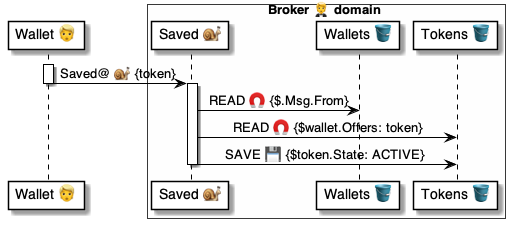
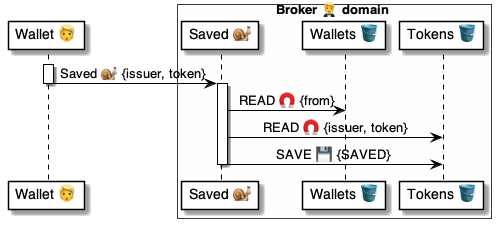
.

diff --git a/4 ⚙ Solution/20 🧑🦰 UI/Brokers 🤵/🤵🅰 Broker methods/Tokens 🎫 Saved 🧑🦰🐌🤵/🤵 Saved 📃 handler.md b/4 ⚙ Solution/20 🧑🦰 UI/Brokers 🤵/🤵🅰 Broker methods/Tokens 🎫 Saved 🧑🦰🐌🤵/🤵 Saved 📃 handler.md
@@ -1,8 +1,9 @@
-# 🤵📃 Saved@Broker 🎫 handler
+# 🤵 Saved 📃 handler
 
 > Purpose
 * [Script 📃](<🤵 Saved 🐌 msg.md>) that implements the [`Saved@Broker` 🅰 method](<🤵 Saved 🐌 msg.md>)
 
+<br/>
 
 ## Diagram
 
@@ -15,32 +16,36 @@
 
 # Assert the message
 - ASSERT|$.Msg:
-    AllOf: Token, Path
-    UUIDs: Token, From
-    Texts: Path
+    AllOf: Token, Issuer, Path
+    UUIDs: Token, Issuer, From
+    Texts: Issuer, Path
 
-# Get the Wallet 🧑🦰
+# Get the Wallet
 - READ >> $wallet:
     Set: Broker.Wallets
-    Key: $.Msg.Header.From 
+    Key: $.Msg.From
 
 # Verify the signature
 - VERIFY|$.Msg:
     Key: $wallet.PublicKey
 
-# Get the offered Token
-- READ >> $offer:
-    Set: $wallet.Offers
-    Key: $.Msg.Token
+# Get the Token
+- READ >> $token:
+    Set: Broker.Tokens
+    Key: 
+        Issuer: $.Msg.Issuer
+        Token: $.Msg.Token
+    Assert:
+        Wallet: $.Msg.From
 
-# Activate the Token
-- SAVE|$offer:
-    Status: ACTIVE
+# Progress the Token
+- SAVE|$token:
+    Status: SAVED
 ```
 
 |Uses||
 |-|-
 | [Commands ⌘](<../../../../35 💬 Chats/Scripts 📃/Command ⌘.md>) | [`ASSERT`](<../../../../37 Scripts 📃/📃 Commands ⌘/⌘ for holders 🧠/ASSERT 🚦/🚦 ASSERT ⌘ cmd.md>) [`READ`](<../../../../37 Scripts 📃/📃 Commands ⌘/⌘ for datasets 🪣/READ 🧲/🧲 READ ⌘ cmd.md>) [`RUN`](<../../../../37 Scripts 📃/📃 Commands ⌘/⌘ for control ▶/RUN 🏃/🏃 RUN ⌘ cmd.md>) [`SAVE`](<../../../../37 Scripts 📃/📃 Commands ⌘/⌘ for datasets 🪣/SAVE 💾/💾 SAVE ⌘ cmd.md>) [`VERIFY`](<../../../../37 Scripts 📃/📃 Commands ⌘/⌘ for messages 📨/VERIFY 🔐/🔐 VERIFY ⌘ cmd.md>)
-| [Datasets 🪣](<../../../../30 🧩 Data/Datasets 🪣/🪣 Dataset.md>) | [`Tokens `](<../../🤵🪣 Broker tables/Tokens 🎫 table/🪣 Tokens/🤵 Broker.Tokens 🪣 table.md>)
+| [Datasets 🪣](<../../../../30 🧩 Data/Datasets 🪣/🪣 Dataset.md>) | [`Broker.Tokens `](<../../🤵🪣 Broker tables/Tokens 🎫 table/🪣 Tokens/🤵 Broker.Tokens 🪣 table.md>)
 | [Holders 🧠](<../../../../35 💬 Chats/Scripts 📃/Holder 🧠.md>) | [`$.Msg`](<../../../../37 Scripts 📃/📃 Holders 🧠/System holders 🔩/$.Msg 📨/📨 $.Msg 🧠 holder.md>)
 |

diff --git a/4 ⚙ Solution/20 🧑🦰 UI/Brokers 🤵/🤵🅰 Broker methods/Tokens 🎫 Saved 🧑🦰🐌🤵/🤵 Saved 🐌 msg.md b/4 ⚙ Solution/20 🧑🦰 UI/Brokers 🤵/🤵🅰 Broker methods/Tokens 🎫 Saved 🧑🦰🐌🤵/🤵 Saved 🐌 msg.md
@@ -28,13 +28,17 @@ Header:
     Subject: Saved@Broker
 
 Body:
+    Issuer: any-issuer.dom
     Token: <token-uuid>
+    Path: /local/path/to/token/file
 ```
 
-|Object|Property|Type|Description|Origin
-|-|-|-|-|-
-|Header|`From`|uuid | [Wallet 🧑🦰](<../../../Wallets 🧑🦰/🧑🦰 Wallet app/🧑🦰 Wallet 🛠 app.md>)  | [`Onboard@`](<../../../Notifiers 📣/📣🅰 Notifier methods/Wallets 🧑🦰 Onboard 🧑🦰🚀📣/📣 Onboard 🚀 call.md>)
-||`To`|text| [Broker 🤵](<../../🤵 Broker helper/🤵 Broker 🤲 helper.md>) | [`Onboard@`](<../../../Notifiers 📣/📣🅰 Notifier methods/Wallets 🧑🦰 Onboard 🧑🦰🚀📣/📣 Onboard 🚀 call.md>)
-||`Subject`|text|`Saved@Broker`
-|Body  |`Token` |uuid  | [Broker 🤵](<../../🤵 Broker helper/🤵 Broker 🤲 helper.md>) key | [`Save@`](<../../../Notifiers 📣/📣🅰 Notifier methods/Tokens 🎫 Save 🤵🐌📣/📣 Save 🐌 msg.md>)
+|Object|Property|Type|Description|Origin|Purpose
+|-|-|-|-|-|-
+|Header|`From`|uuid | [Wallet 🧑🦰](<../../../Wallets 🧑🦰/🧑🦰 Wallet app/🧑🦰 Wallet 🛠 app.md>)  | [`Onboard@`](<../../../Notifiers 📣/📣🅰 Notifier methods/Wallets 🧑🦰 Onboard 🧑🦰🚀📣/📣 Onboard 🚀 call.md>) | 
+||`To`|text| [Broker 🤵](<../../🤵 Broker helper/🤵 Broker 🤲 helper.md>) | [`Onboard@`](<../../../Notifiers 📣/📣🅰 Notifier methods/Wallets 🧑🦰 Onboard 🧑🦰🚀📣/📣 Onboard 🚀 call.md>) | 
+||`Subject`|text|`Saved@Broker` 
+|Body  |`Issuer`| text | [Issuer 🎴](<../../🎴 Issuer/🎴🎭 Issuer role.md>) domain | [`Save@`](<../../../Notifiers 📣/📣🅰 Notifier methods/Tokens 🎫 Save 🤵🐌📣/📣 Save 🐌 msg.md>) | 
+||`Token` |uuid  | [Broker 🤵](<../../🤵 Broker helper/🤵 Broker 🤲 helper.md>) key | [`Save@`](<../../../Notifiers 📣/📣🅰 Notifier methods/Tokens 🎫 Save 🤵🐌📣/📣 Save 🐌 msg.md>) | 
+|  |`Path` |text  | Local saved path  |  | [`Remove@`](<../../../Notifiers 📣/📣🅰 Notifier methods/Tokens 🎫 Remove 🤵🐌📣/📣 Remove 🐌 msg.md>)
 |

diff --git a/4 ⚙ Solution/20 🧑🦰 UI/Brokers 🤵/🤵🪣 Broker tables/Tokens 🎫 table/🪣🔔 5 Saved/🤵 OnTokenSaved 📃 handler.md b/4 ⚙ Solution/20 🧑🦰 UI/Brokers 🤵/🤵🪣 Broker tables/Tokens 🎫 table/🪣🔔 5 Saved/🤵 OnTokenSaved 📃 handler.md
@@ -13,21 +13,22 @@
 
 # Assert the inputs
 - ASSERT|$Token:
-    AllOf: ID, Issuer, Hook
-    UUIDs: ID, Hook
+    AllOf: Issuer, Token
+    UUIDs: Token
     Texts: Issuer
 
 # Inform the Issuer
 - SEND:
     Header:
         To: $Token.Issuer
-        Subject: Accepted@Issuer
+        Subject: Offered@Issuer
     Body:
-        Hook: $Token.Hook  # Hook at Issuer
+        Token: $Token.Token  
+        Answer: ACCEPTED
 ```
 
 |Uses||
 |-|-
 | [Commands ⌘](<../../../../../35 💬 Chats/Scripts 📃/Command ⌘.md>) | [`ASSERT`](<../../../../../37 Scripts 📃/📃 Commands ⌘/⌘ for holders 🧠/ASSERT 🚦/🚦 ASSERT ⌘ cmd.md>) [`SEND`](<../../../../../37 Scripts 📃/📃 Commands ⌘/⌘ for messages 📨/SEND 📬/📬 SEND ⌘ cmd.md>)
-| [Messages 📨](<../../../../../30 🧩 Data/Messages 📨/📨 Message/📨 Message.md>) | [`Accepted@Issuer` 🅰 method](<../../../../../41 🎭 Domain Roles/Issuers 🎴/🎴🅰 Issuer methods/Offered 🤵🐌🎴/🎴 Offered 🐌 msg.md>)
+| [Messages 📨](<../../../../../30 🧩 Data/Messages 📨/📨 Message/📨 Message.md>) | [`Offered@Issuer`](<../../../../../41 🎭 Domain Roles/Issuers 🎴/🎴🅰 Issuer methods/Offered 🤵🐌🎴/🎴 Offered 🐌 msg.md>)
 |
